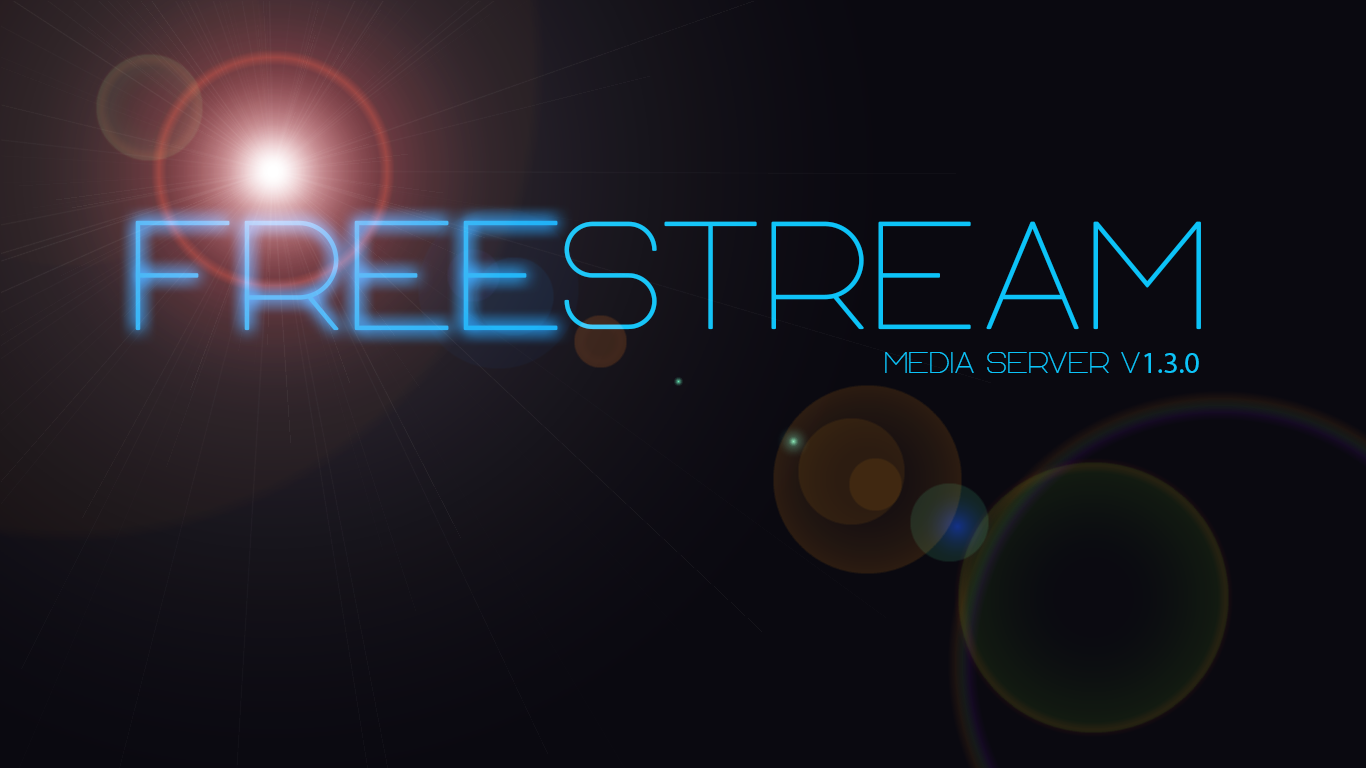
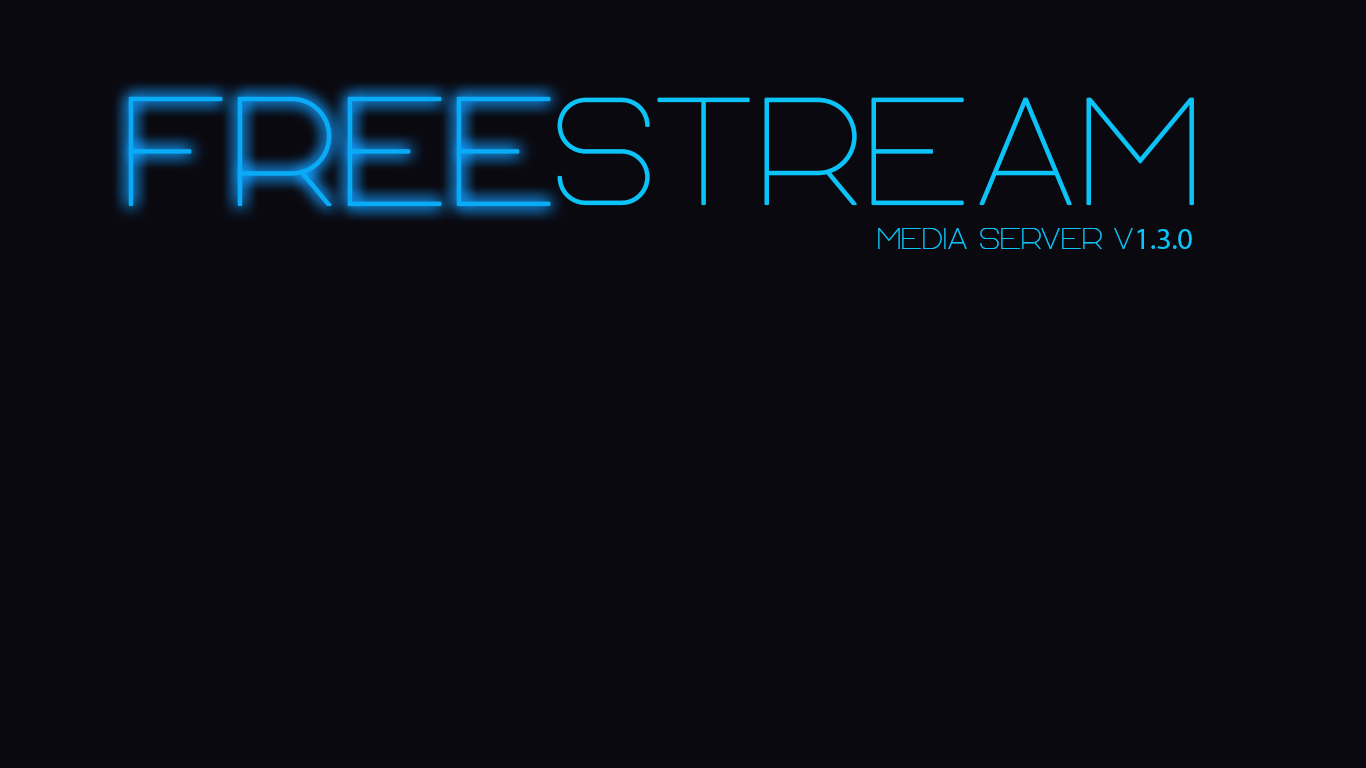
Update landing PNG and remove duplicate FreeStream text from login card.
Use edited desktop artwork; hide app header on landing; cache-bust image URL.

diff --git a/client/index.html b/client/index.html
@@ -414,7 +414,7 @@
         .settings-save-btn:hover { background:#33ddff; }
 
         #app-shell { min-height:100vh; }
-        body.login-required #app-shell { display:none; }
+        body.login-required #app-shell { display:none !important; }
         body:not(.login-required) #app-shell { animation:appReveal 0.4s ease; }
         @keyframes appReveal {
             from { opacity:0; }
@@ -580,7 +580,7 @@
 <div id="app-shell">
 
 <header>
-    <div class="logo">Free<span>Stream</span><span class="app-version">v1.0.10</span></div>
+    <div class="logo">Free<span>Stream</span><span class="app-version">v1.0.11</span></div>
     <nav class="main-nav">
         <button class="nav-btn active" onclick="setSection('movies', this)">Movies</button>
         <button class="nav-btn" onclick="setSection('tvshows', this)">TV Shows</button>
@@ -720,19 +720,13 @@
 </div><!-- /app-shell -->
 
 <div id="landing-page">
-    <img src="/landing.png" alt="FreeStream">
+    <img src="/landing.png?v=1.0.11" alt="">
 </div>
 
 <div id="login-modal">
     <div class="settings-overlay"></div>
     <div class="settings-card login-card">
-        <div class="settings-header" style="border-bottom:none;padding-bottom:0">
-            <div>
-                <div class="login-logo">Free<span style="color:rgba(0,212,255,0.5);font-weight:300">Stream</span></div>
-                <div class="login-tagline">Sign in to your library</div>
-            </div>
-        </div>
-        <div class="settings-body" style="padding-top:0">
+        <div class="settings-body" style="padding-top:16px">
             <form id="login-form" onsubmit="submitLogin(event)">
                 <div class="login-field">
                     <label for="login-user">Username</label>

diff --git a/server/settings.js b/server/settings.js
@@ -6,7 +6,7 @@ const __filename = fileURLToPath(import.meta.url);
 const __dirname = path.dirname(__filename);
 const SETTINGS_FILE = path.join(__dirname, 'settings.json');
 
-export const APP_VERSION = '1.0.10';
+export const APP_VERSION = '1.0.11';
 
 const DEFAULTS = {
     mediaFolders: [process.env.MEDIA_FOLDER || "/media/movies"],